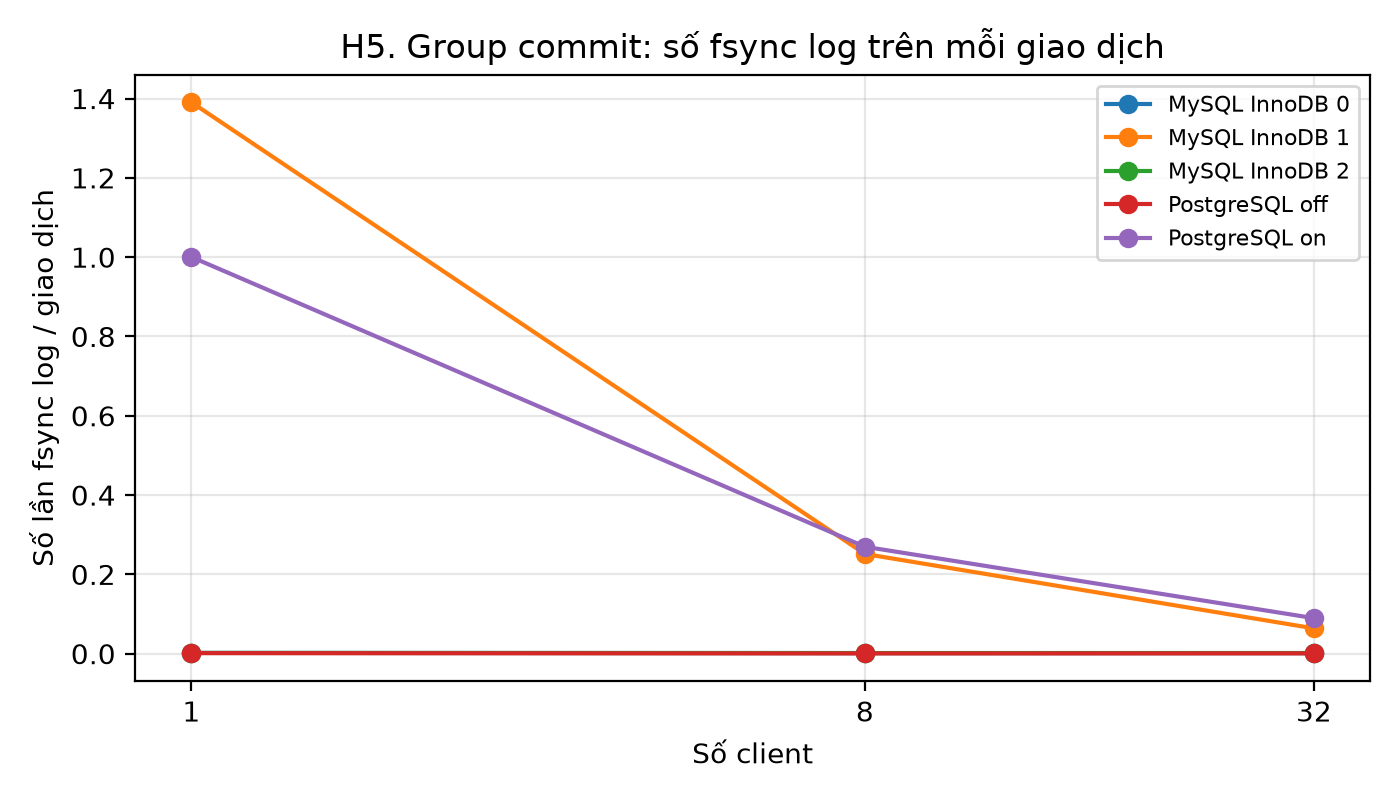
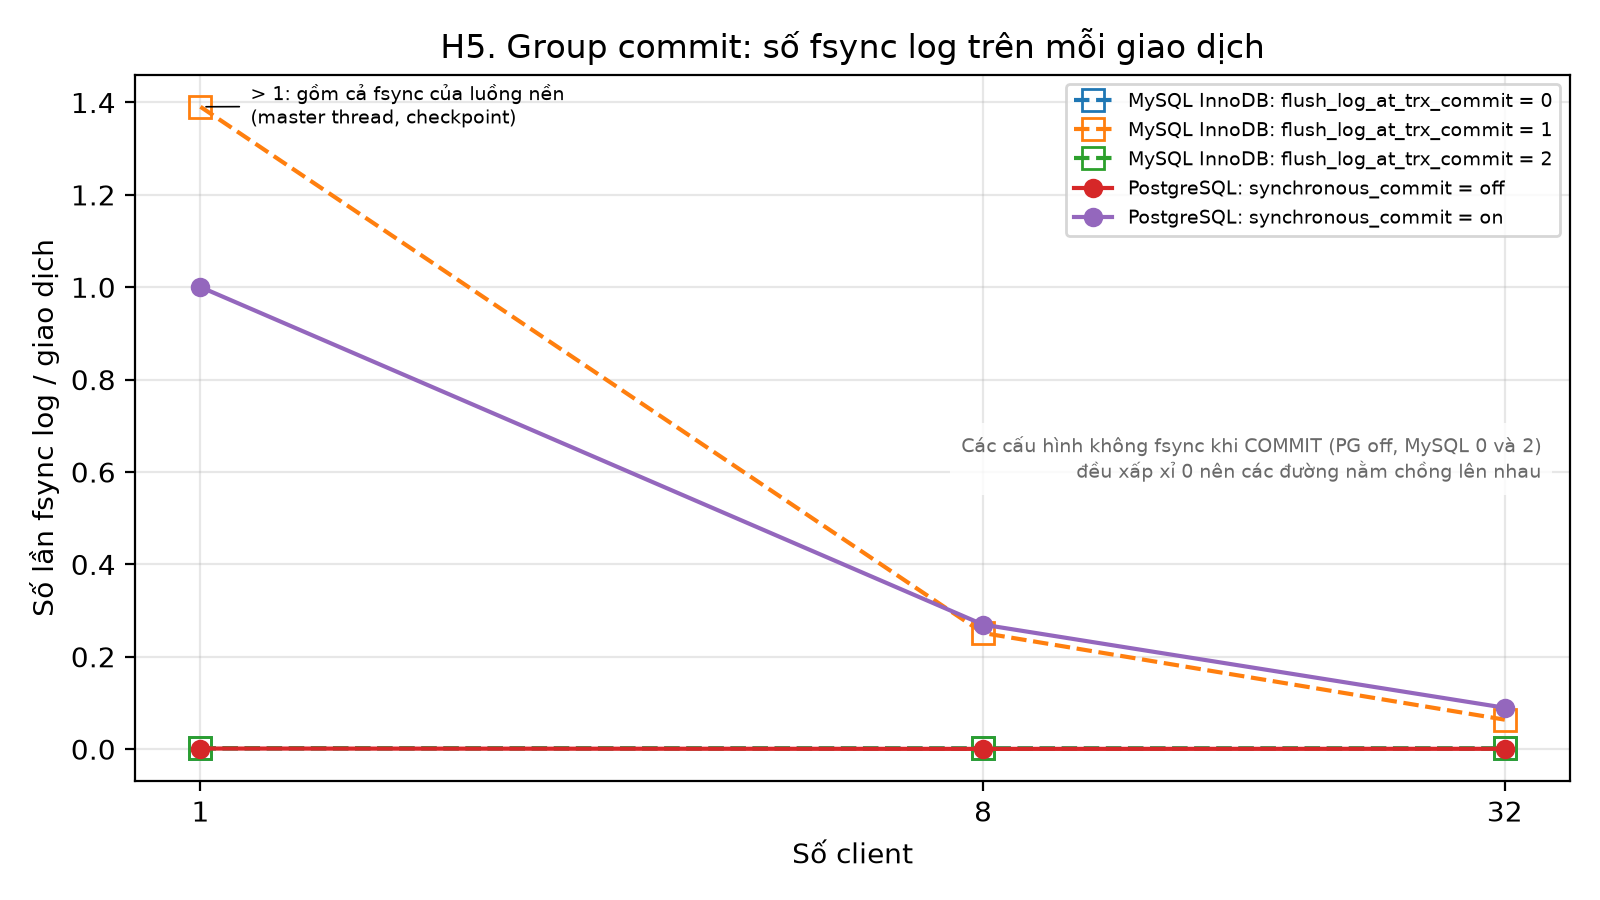
Sửa H5 (tách đường chồng, chú thích), H7 (đánh dấu checkpoint), H8 (chú giải)

diff --git a/analysis/plots.py b/analysis/plots.py
@@ -35,6 +35,27 @@ def label(row):
     return f"{DBNAME[row['db']]}: {PNAME.get(row['param'], row['param'])}={row['value']}"
 
 
+def read_checkpoints(path, t0):
+    """Đọc log checkpoint của PostgreSQL; trả về [(loại, giây kể từ t0)].
+    loại: "time" (định kỳ), "manual" (lệnh CHECKPOINT), bỏ qua checkpoint lúc tắt máy (shutdown)."""
+    import datetime as dt
+    import re
+    out = []
+    if not os.path.exists(path):
+        return out
+    for line in open(path, errors="replace"):
+        m = re.search(r"(\d{4}-\d{2}-\d{2} \d{2}:\d{2}:\d{2}\.\d+) (GMT|UTC).*checkpoint starting: (.*)", line)
+        if not m:
+            continue
+        when = dt.datetime.strptime(m.group(1), "%Y-%m-%d %H:%M:%S.%f").replace(tzinfo=dt.timezone.utc).timestamp()
+        why = m.group(3)
+        if "shutdown" in why:
+            continue
+        kind = "time" if why.strip().startswith("time") else ("manual" if "immediate" in why or "force" in why else "other")
+        out.append((kind, when - t0))
+    return out
+
+
 def fig_A(s):
     # H3: TPS theo số client
     fig, axes = plt.subplots(1, 2, figsize=(11, 4), sharey=False)
@@ -65,14 +86,27 @@ def fig_A(s):
 
     # H5: số fsync log trên mỗi giao dịch theo số client
     if "log_fsyncs_per_txn_mean" in s:
-        fig, ax = plt.subplots(figsize=(7, 4))
+        fig, ax = plt.subplots(figsize=(8, 4.5))
+        style = {"pg": ("o", "-"), "mysql": ("s", "--")}
         for (db, val), g in s.groupby(["db", "value"]):
             g = g.sort_values("clients")
-            ax.plot(g["clients"], g["log_fsyncs_per_txn_mean"], marker="o", label=f"{DBNAME[db]} {val}")
+            mk, ls = style.get(db, ("o", "-"))
+            ax.plot(g["clients"], g["log_fsyncs_per_txn_mean"], marker=mk, linestyle=ls,
+                    markersize=6 if db == "pg" else 8, fillstyle="full" if db == "pg" else "none",
+                    label=f"{DBNAME[db]}: {PNAME.get(g['param'].iloc[0], g['param'].iloc[0])} = {val}")
+        hi = s[s["log_fsyncs_per_txn_mean"] > 1.05]
+        for _, r in hi.iterrows():
+            ax.annotate("> 1: gồm cả fsync của luồng nền\n(master thread, checkpoint)",
+                        (r["clients"], r["log_fsyncs_per_txn_mean"]), xytext=(18, -6),
+                        textcoords="offset points", fontsize=7, arrowprops=dict(arrowstyle="-", lw=.6))
+        ax.text(0.98, 0.42, "Các cấu hình không fsync khi COMMIT (PG off, MySQL 0 và 2)\n"
+                "đều xấp xỉ 0 nên các đường nằm chồng lên nhau",
+                transform=ax.transAxes, ha="right", va="bottom", fontsize=7, color="dimgray",
+                bbox=dict(facecolor="white", edgecolor="none", alpha=.8))
         ax.set_xscale("log", base=2); ax.set_xticks(sorted(s["clients"].unique()))
         ax.get_xaxis().set_major_formatter(matplotlib.ticker.ScalarFormatter())
         ax.set_xlabel("Số client"); ax.set_ylabel("Số lần fsync log / giao dịch")
-        ax.set_title("H5. Group commit: số fsync log trên mỗi giao dịch"); ax.grid(alpha=.3); ax.legend(fontsize=8)
+        ax.set_title("H5. Group commit: số fsync log trên mỗi giao dịch"); ax.grid(alpha=.3); ax.legend(fontsize=7)
         save(fig, "H5_fsync_per_txn.png")
 
 
@@ -118,20 +152,44 @@ def fig_B(s, samples, wd):
         fig.suptitle("H6. Chi phí bảo vệ trang: lượng ghi trên mỗi giao dịch (8 client, trung bình 3 lần)")
         save(fig, "H6_page_protection_cost.png")
 
-    # H7: tốc độ sinh WAL theo thời gian (lần chạy r1 của mỗi cấu hình PostgreSQL)
+    # H7: tốc độ sinh WAL theo thời gian (lần chạy r1 của mỗi cấu hình PostgreSQL),
+    # đánh dấu checkpoint đọc từ file .checkpoints (log PostgreSQL, giờ GMT).
     if samples is not None:
         sm = samples[(samples["db"] == "pg") & (samples["name"] == "lsn_bytes") & samples["run"].str.endswith("_r1")]
+        ts = samples[(samples["db"] == "pg") & (samples["name"] == "ts") & samples["run"].str.endswith("_r1")]
         if len(sm):
-            fig, ax = plt.subplots(figsize=(9, 4))
+            fig, ax = plt.subplots(figsize=(10, 4.5))
+            colors = {}
             for run, g in sm.groupby("run"):
                 g = g.sort_values("t")
                 rate = g["v"].diff() / g["t"].diff() / 1e6
-                ax.plot(g["t"], rate, label=run.replace("B_pg_", "").replace("_c8_r1", ""))
-                ck = os.path.join(RES, "raw", run + ".checkpoints")
-                if os.path.exists(ck) and os.path.getsize(ck):
-                    ax.text(0.01, 0.95, "xem thời điểm checkpoint trong file .checkpoints", transform=ax.transAxes, fontsize=7)
-            ax.set_xlabel("Thời gian từ lúc bắt đầu (giây)"); ax.set_ylabel("WAL sinh ra (MB/giây)")
-            ax.set_title("H7. Tốc độ sinh WAL theo thời gian, full_page_writes bật và tắt"); ax.grid(alpha=.3); ax.legend()
+                lab = run.replace("B_pg_", "").replace("_c8_r1", "")
+                line, = ax.plot(g["t"], rate, label=f"full_page_writes = {lab}")
+                colors[run] = line.get_color()
+            tmax = sm["t"].max()
+            marked_manual = marked_timed = False
+            for run in sm["run"].unique():
+                t0 = ts[ts["run"] == run].sort_values("t")["v"]
+                if not len(t0):
+                    continue
+                t0 = float(t0.iloc[0])
+                for kind, t in read_checkpoints(os.path.join(RES, "raw", run + ".checkpoints"), t0):
+                    if kind == "time" and 0 <= t <= tmax:
+                        ax.axvline(t, color=colors[run], linestyle="--", lw=1.2)
+                        ax.annotate("checkpoint định kỳ\n(checkpoint_timeout = 5min)", (t, ax.get_ylim()[1] * 0.9),
+                                    xytext=(-8, 0), textcoords="offset points", ha="right", fontsize=8,
+                                    color="black") if not marked_timed else None
+                        marked_timed = True
+                    elif kind == "manual" and -120 <= t < 0 and not marked_manual:
+                        ax.axvline(t, color="gray", linestyle=":", lw=1.2)
+                        ax.axvspan(t, 0, color="gray", alpha=.12)
+                        ax.text((t + 0) / 2, ax.get_ylim()[1] * 0.5, "CHECKPOINT thủ công\n+ warmup 60 s\n(không đo)",
+                                ha="center", fontsize=7, color="dimgray")
+                        marked_manual = True
+            ax.set_xlim(left=-75 if marked_manual else 0)
+            ax.set_xlabel("Thời gian từ lúc bắt đầu đo (giây)"); ax.set_ylabel("WAL sinh ra (MB/giây)")
+            ax.set_title("H7. Tốc độ sinh WAL theo thời gian: đỉnh sau mỗi checkpoint khi full_page_writes = on")
+            ax.grid(alpha=.3); ax.legend(loc="upper center", fontsize=8)
             save(fig, "H7_wal_rate.png")
 
     # H8: thành phần WAL (byte bản ghi thường và byte full-page image), tách FPI_FOR_HINT
@@ -151,7 +209,8 @@ def fig_B(s, samples, wd):
             ax.text(i, pv.loc[v].sum(), f"FPI {100 * fpi[v]:.0f}%", ha="center", va="bottom", fontsize=9)
         ax.set_ylim(0, pv.sum(axis=1).max() * 1.12)
         ax.set_xlabel("full_page_writes"); ax.set_ylabel("MB WAL mỗi lần chạy (trung bình)")
-        ax.set_title("H8. Thành phần WAL theo pg_waldump"); ax.grid(axis="y", alpha=.3)
+        ax.legend(title="Loại bản ghi WAL", fontsize=8, title_fontsize=8)
+        ax.set_title("H8. Thành phần WAL theo pg_waldump (FPI = phần ảnh trang đầy đủ)"); ax.grid(axis="y", alpha=.3)
         save(ax.figure, "H8_wal_composition.png")
 
 
